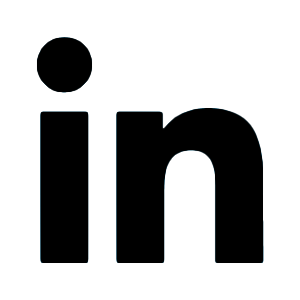
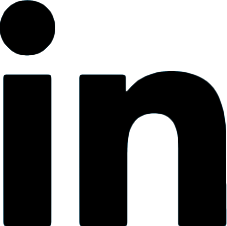
Element Scaling / Sizing
Proper resizing and scaling to optimize appearance of the site's elements on smaller screens.

Cleanup of CSS styling as well.

diff --git a/index2.html b/index2.html
@@ -9,10 +9,10 @@
     <br>
     <body>
         <div class="logo_art">
-            <h1><img
-              src="images/logo3.png"
-              alt="Smiling Character Logo with McInerney Media text to the right of it"
-            />
+            <h1>
+              <a href="index2.html">
+                <img alt="Smiling Character Logo with McInerney Media text to the right of it" src="images/logo3.png" width="200" height="46">
+                </a>
           </h1>
         </div>
        <div class="site_menu"
@@ -29,15 +29,21 @@
               <img src="imagesscaled/pepper.jpg">
               <img src="imagesscaled/vet.jpg">
               <img src="imagesscaled/green.jpg">
-              <img src="imagesscaled/poly.jpg">
-              <img src="imagesscaled/look.jpg">
-              <img src="imagesscaled/thomas.jpg">
-              <img src="imagesscaled/sit.jpg">
-              <img src="imagesscaled/blue.jpg">
             </div>
+            <div class="column">
+            <img src="imagesscaled/poly.jpg">
+            <img src="imagesscaled/look.jpg">
+            <img src="imagesscaled/thomas.jpg">
+            <img src="imagesscaled/sit.jpg">
+            <img src="imagesscaled/blue.jpg">
+        </div>
     </body>
     <footer>
-              <img src="imagesscaled/mail.png">
-              <img src="imagesscaled/linkedin.png">
+              <a href="mailto:sam646@drexel.edu">
+                <img alt="Link To Steven's Email" src="imagesscaled/mail.png" width="59" height="42">
+                </a>
+              <a href="https://www.linkedin.com/in/steven-mcinerney-3b106819a/" target="_blank">
+                <img alt="Link To Steven's Email" src="imagesscaled/linkedin.png" width="100" height="100">
+                </a>
     </footer>
 </html>

diff --git a/styles.css b/styles.css
@@ -3,7 +3,7 @@
     display: block;
   margin-left: auto;
   margin-right: auto;
-  width: 50%;
+  width: 14%;
   }
 
   a:link {
@@ -45,15 +45,34 @@
 
   }
 
+
 .works {
     background-color: rgb(240, 240, 240);
+    display: flex;
+    flex-wrap: wrap;
+    padding: 0 4px;
 }
+
+.column {
+    flex: 50%;
+    max-width: 50%;
+    padding: 0 4px;
+  }
+
+  .column img {
+    margin-top: 12px;
+  }
+
+
 
 .site_menu {
     list-style-type: none;
     font-family: Lato;
+    font-size: 8;
   src: url(service/Lato-Thin.ttf);
   color: rgb(26, 26, 26);
+  text-align: center;
+  padding-bottom: 24px;
 }
 
 .about_me {
